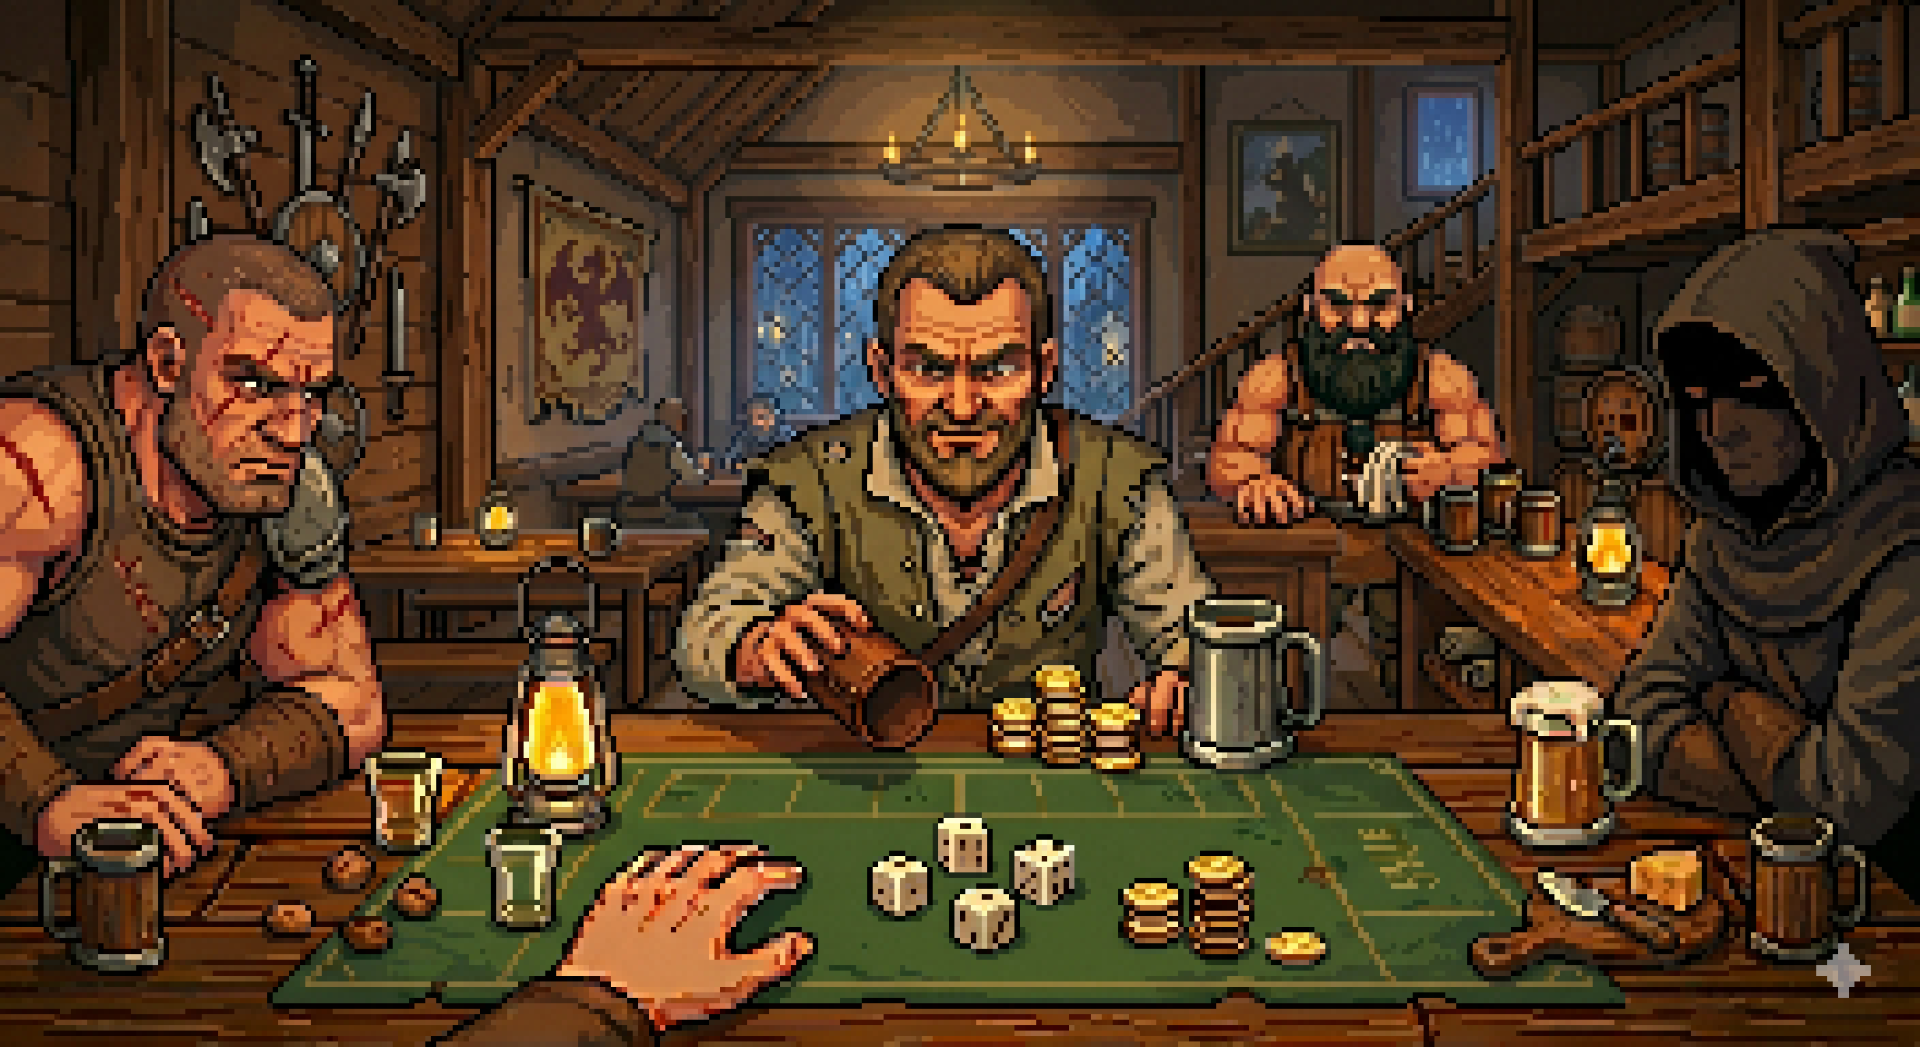
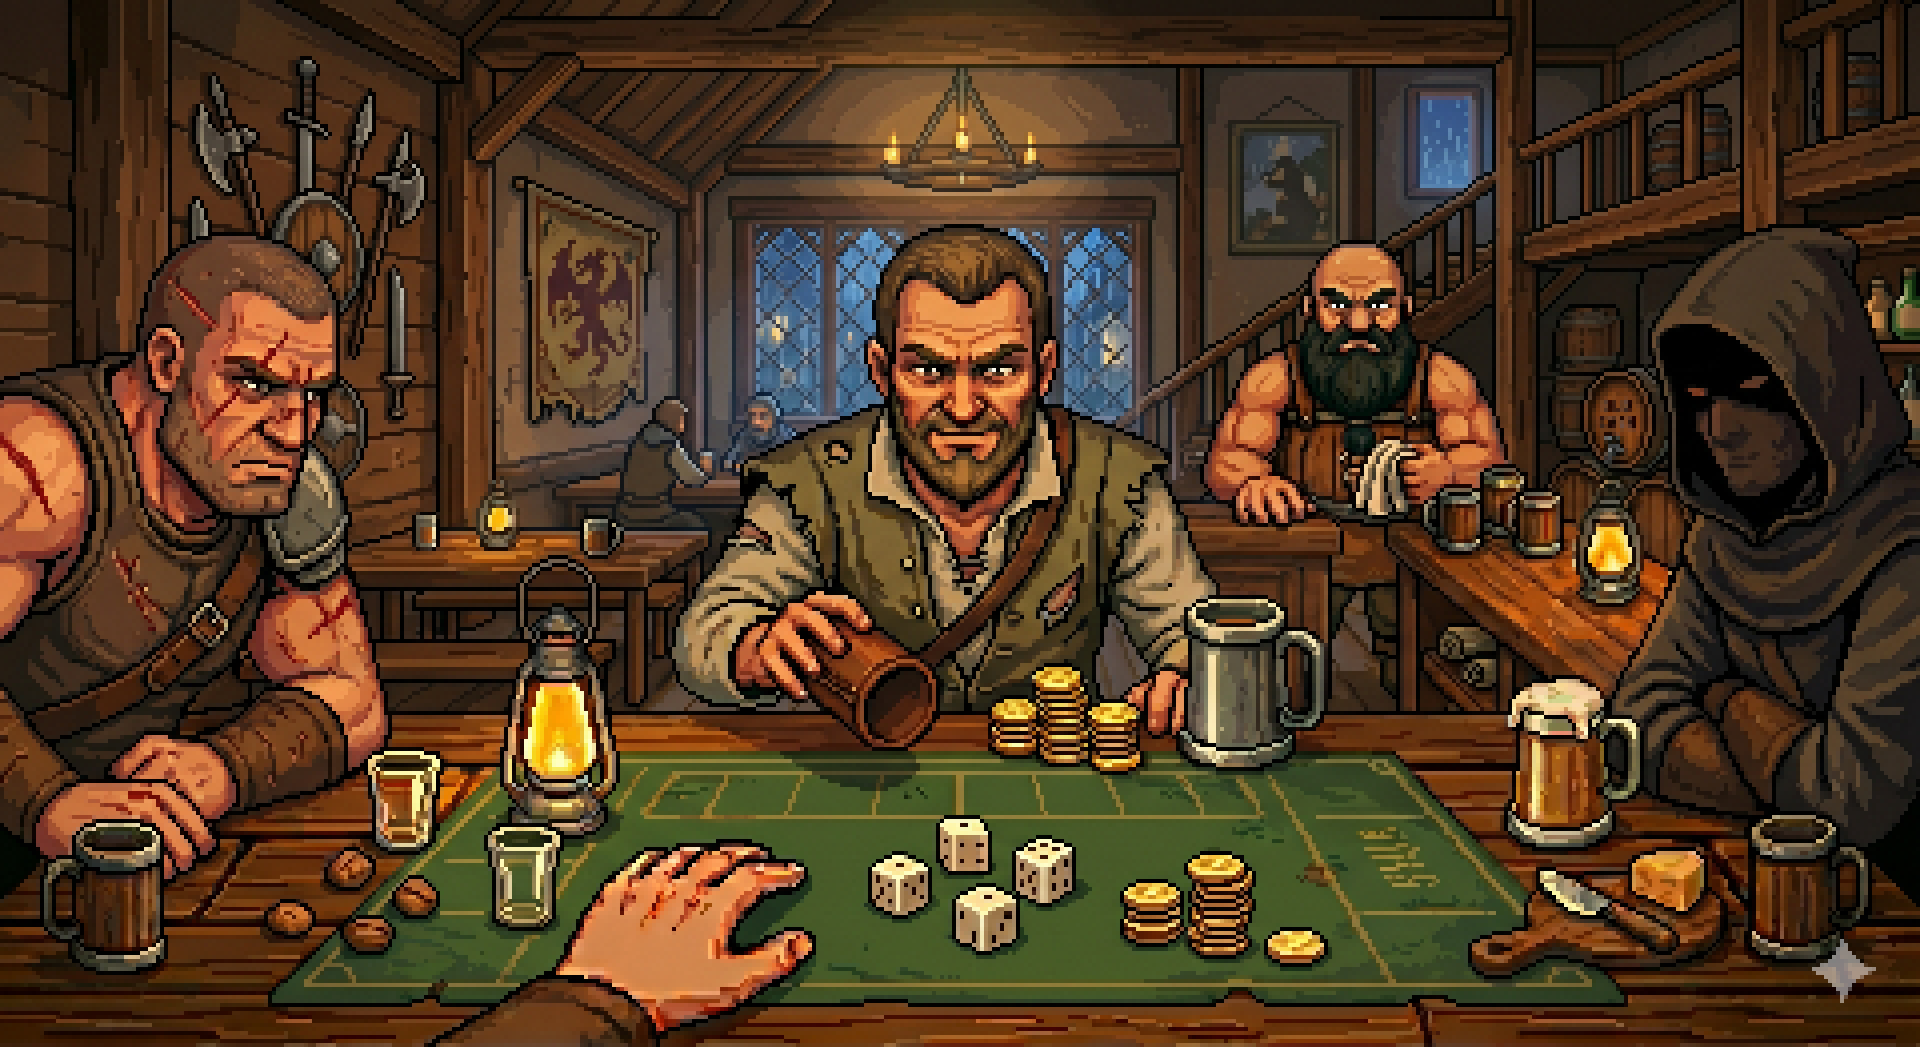
Adição dos assets de som
Pequenas mudanças

diff --git a/teste.py b/teste.py
@@ -724,7 +724,7 @@ def escalar_caber(imagem, largura, altura):
 def carregar_sprites_dados():
     rolling_path = os.path.join(DICES_DIR, "DADOS ROLANDO.png")
     rolling = pygame.image.load(rolling_path).convert_alpha()
-    rolling = escalar_caber(rolling, int(LARGURA * 0.55), int(ALTURA * 0.55))
+    rolling = escalar_caber(rolling, int(LARGURA), int(ALTURA))
 
     cache = {}
     for a in range(1, 7):
@@ -733,7 +733,7 @@ def carregar_sprites_dados():
             caminho = os.path.join(DICES_DIR, nome)
             if os.path.isfile(caminho):
                 img = pygame.image.load(caminho).convert_alpha()
-                cache[(a, b)] = escalar_caber(img, int(LARGURA * 0.55), int(ALTURA * 0.55))
+                cache[(a, b)] = escalar_caber(img, int(LARGURA), int(ALTURA))
 
     return rolling, cache
 
@@ -774,10 +774,10 @@ class TavernTalkGUI:
         self.tela = pygame.display.set_mode((LARGURA, ALTURA))
         pygame.display.set_caption("Tavern Talk")
         self.relogio = pygame.time.Clock()
-        self.fonte = pygame.font.SysFont("segoeui", 22)
-        self.fonte_btn = pygame.font.SysFont("segoeui", 18)
-        self.fonte_hud = pygame.font.SysFont("segoeui", 26, bold=True)
-        self.fonte_titulo = pygame.font.SysFont("segoeui", 28, bold=True)
+        self.fonte = pygame.font.SysFont("Courier", 28)
+        self.fonte_btn = pygame.font.SysFont("Courier", 22)
+        self.fonte_hud = pygame.font.SysFont("Courier", 32, bold=True)
+        self.fonte_titulo = pygame.font.SysFont("Courier", 34, bold=True)
 
         telas_cheias = {
             "bebado_esbarra",